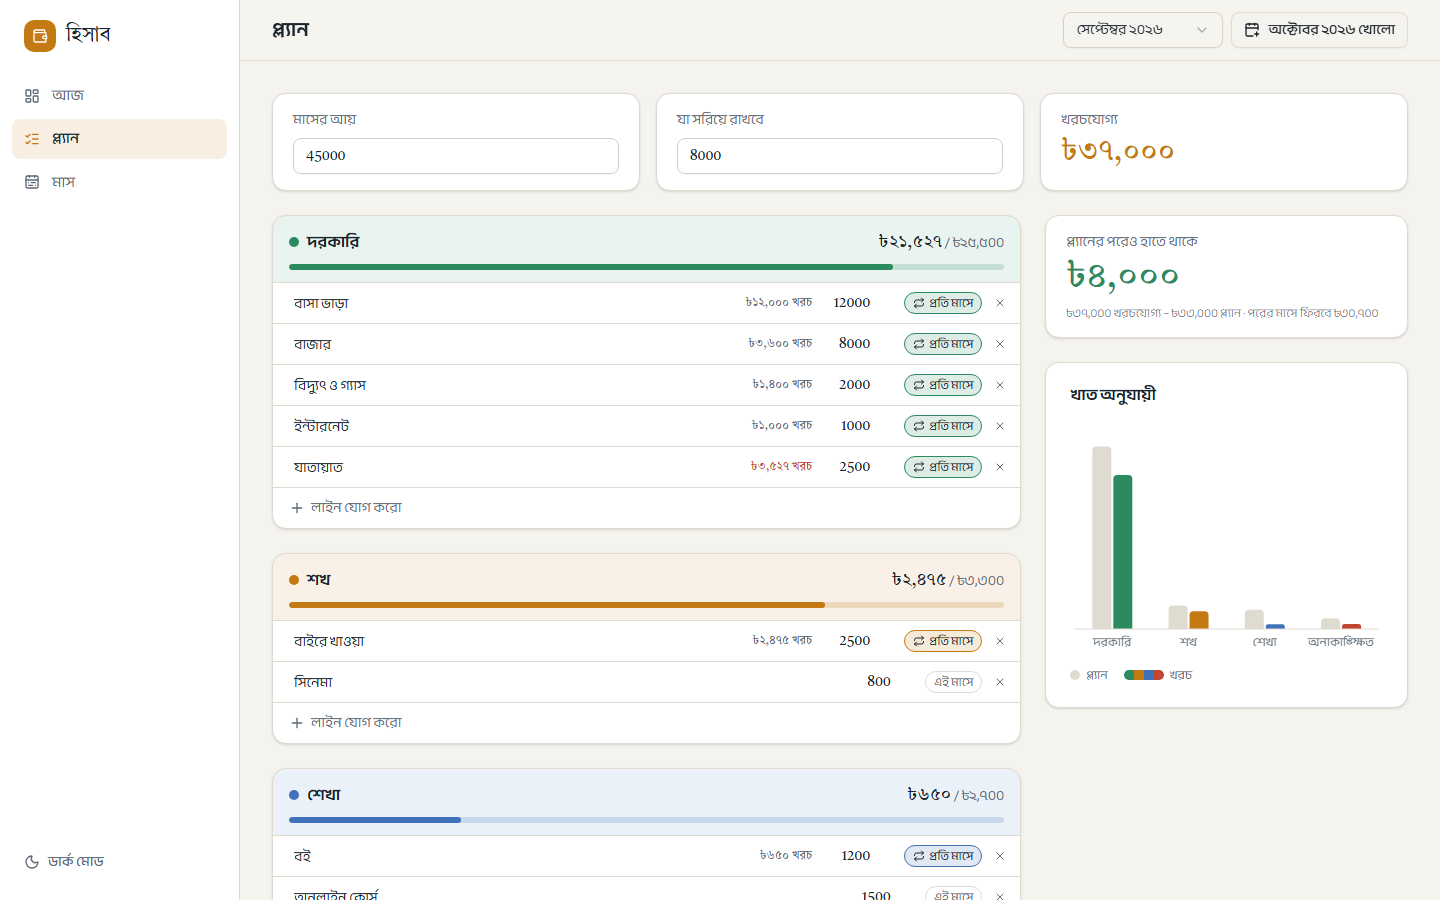
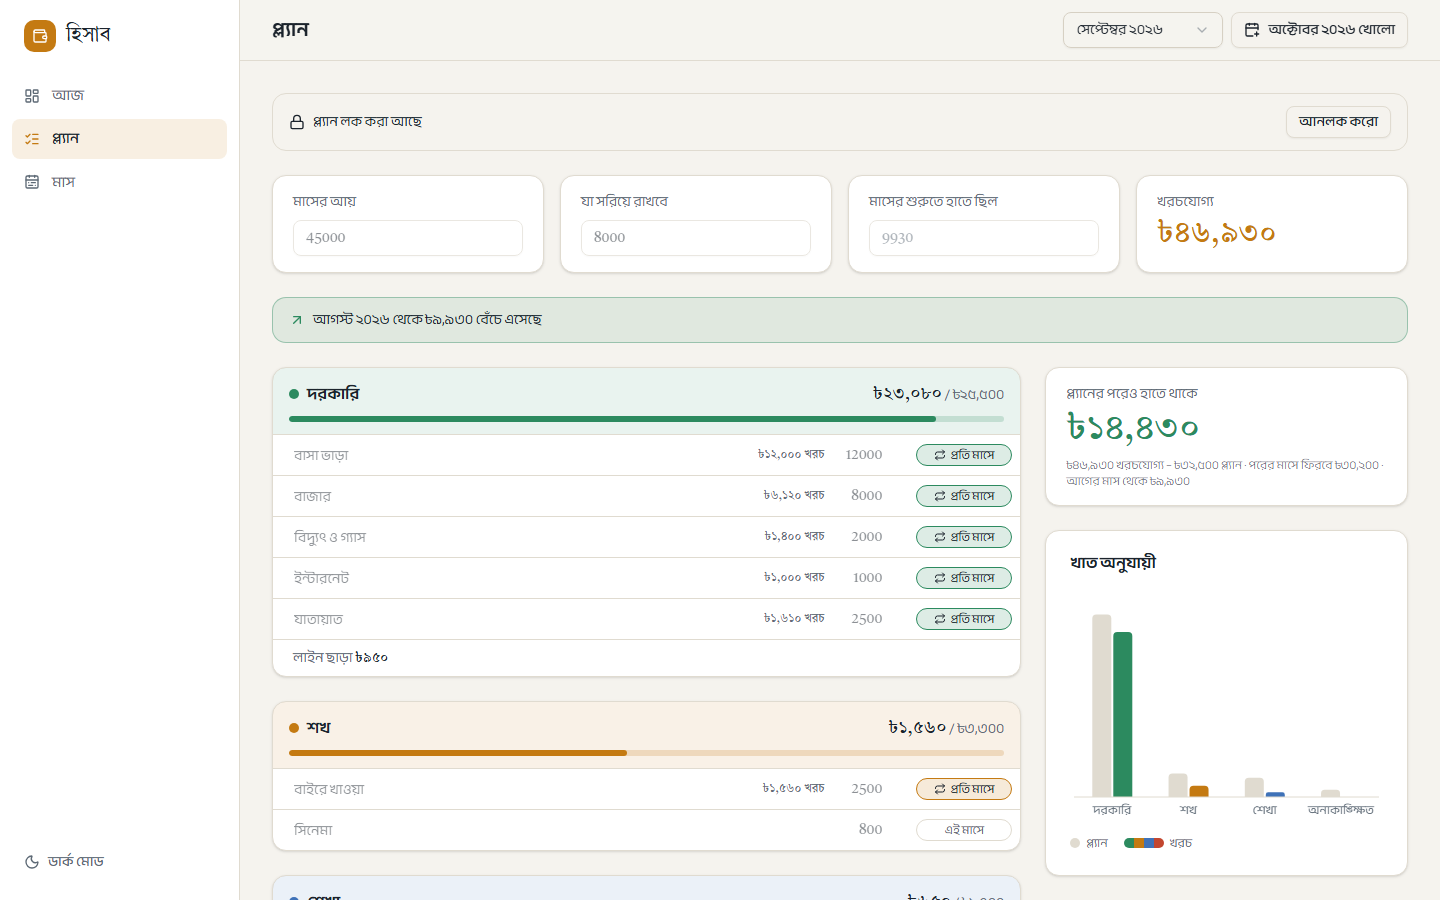
Update README screenshots and add the month page

Changed region(s): [[0.1875, 0.1244, 1.0, 1.0], [0.9062, 0.1244, 0.9688, 0.1556], [0.7812, 0.9333, 0.8125, 0.9644]]

diff --git a/README.md b/README.md
@@ -10,6 +10,8 @@ The app runs in the browser and saves data in `localStorage`. An optional accoun
 
 ![Plan page](docs/screenshots/plan.png)
 
+![Month page](docs/screenshots/month.png)
+
 ## Features
 
 - **Today dashboard:** shows money left, today's and this week's spending against their allowance, and how much is free versus tied up in fixed costs. A daily spending chart marks days you haven't logged.
